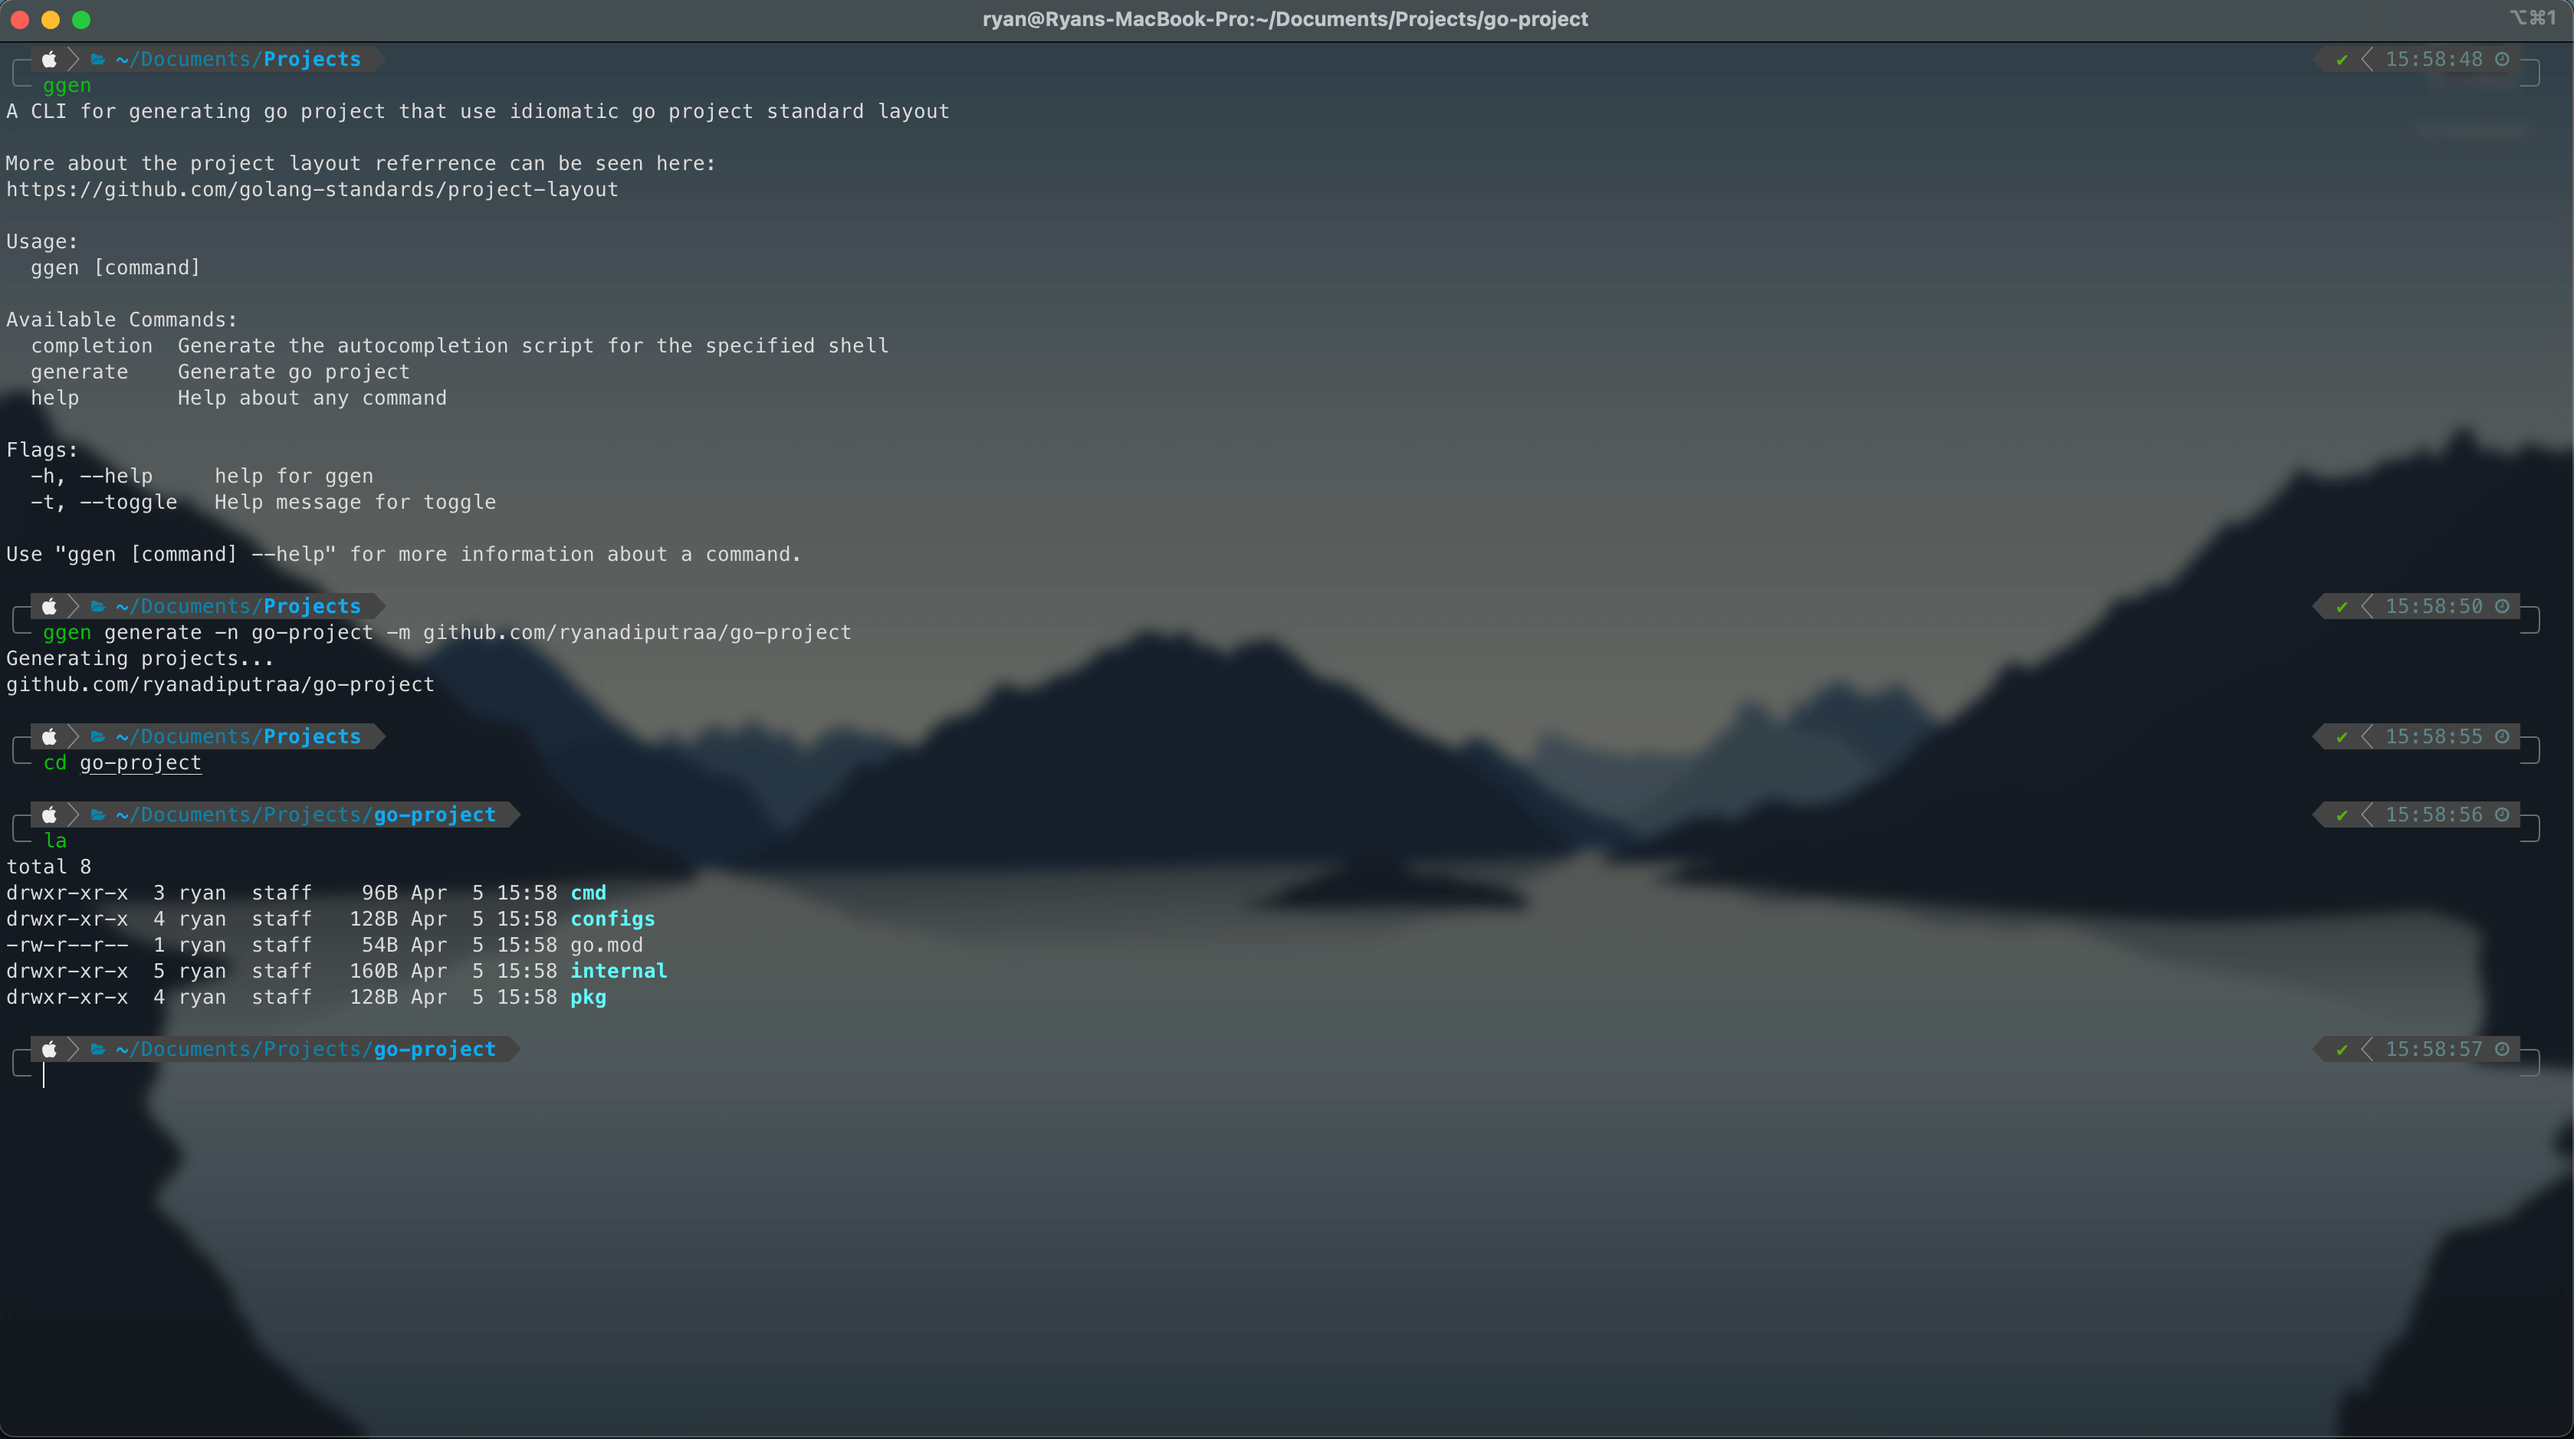
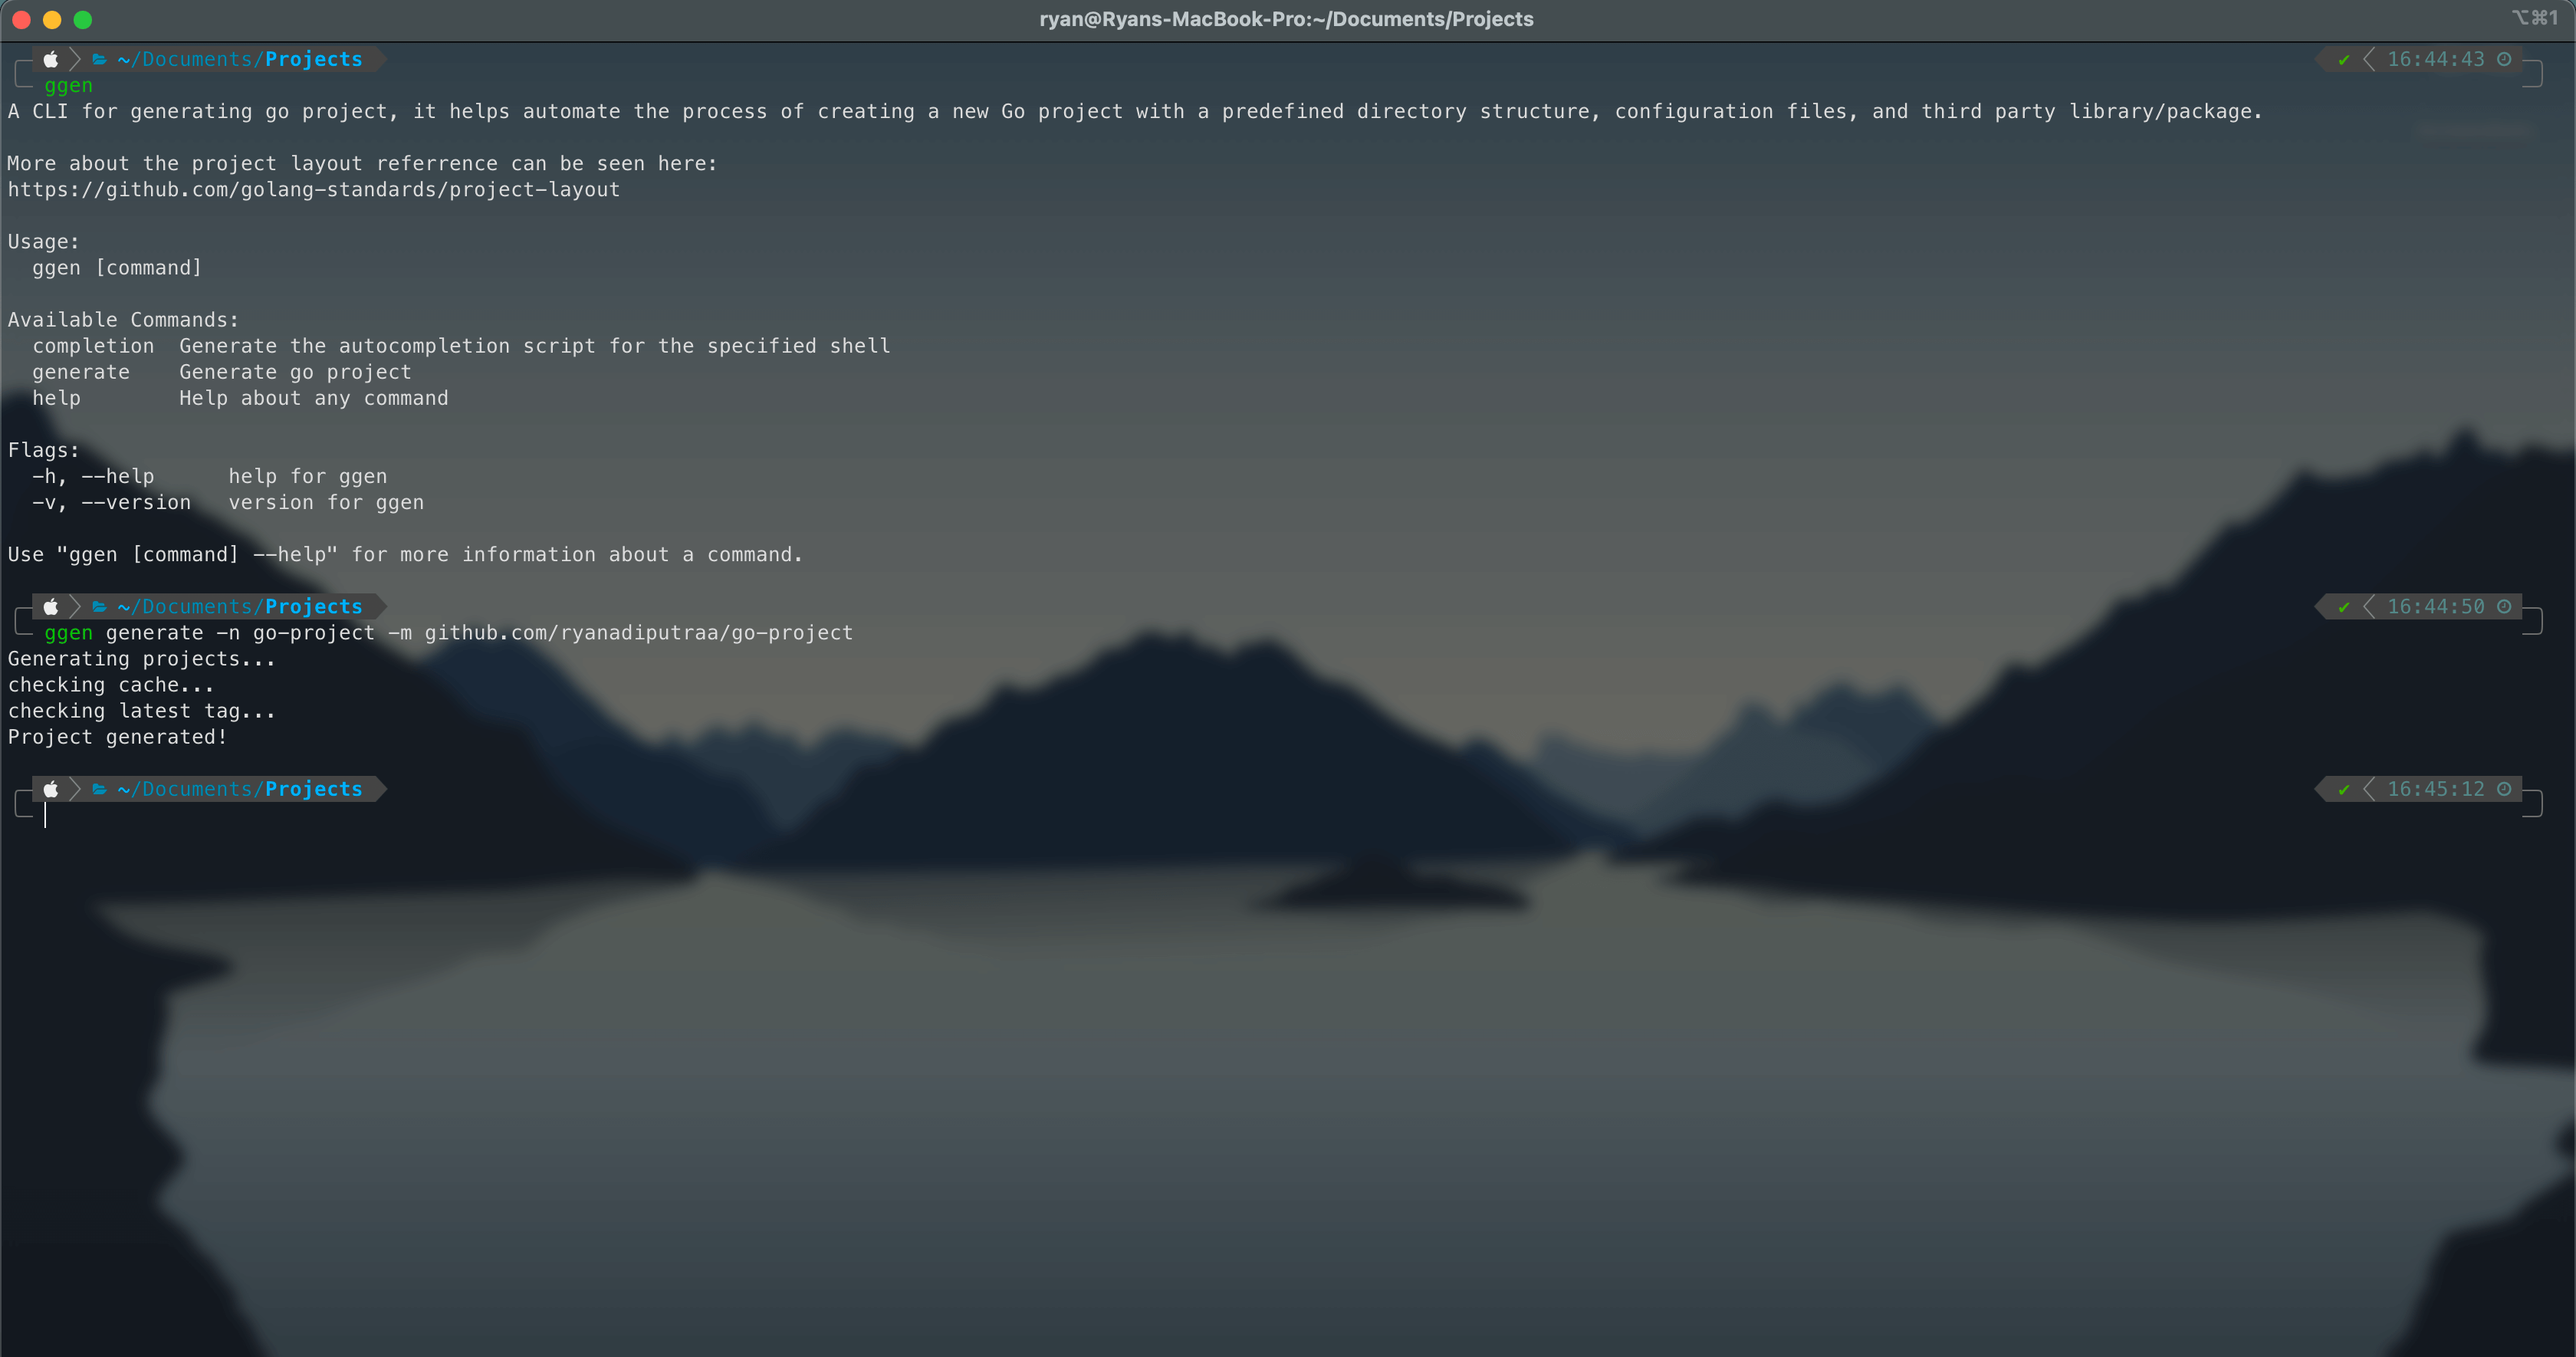
chore: update project overview

diff --git a/app/components/projects.tsx b/app/components/projects.tsx
@@ -39,7 +39,8 @@ const projects: Project[] = [
   },
   {
     title: 'ggen',
-    description: 'A CLI for generating go project that use golang standards project layout.',
+    description:
+      'A CLI for generating go project, it helps automate the process of creating a new Go project with a predefined directory structure, configuration files, and third party library/package.',
     img: '/assets/img/ggen-overview.png',
     stacks: ['Go', 'Cobra', 'Bash'],
     github: 'https://github.com/ryanadiputraa/ggen',
